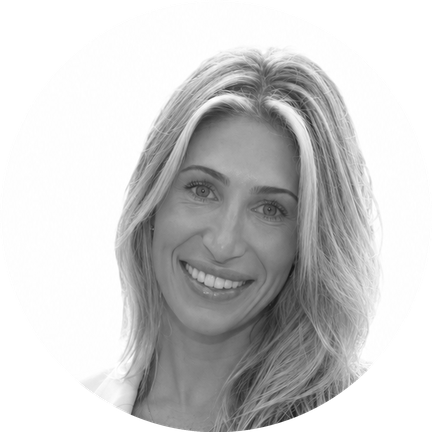
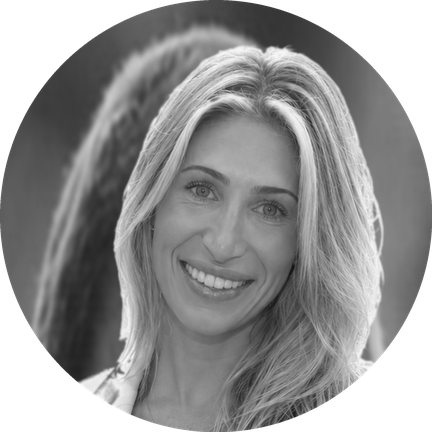
Match Mackenzie's headshot background to the rest of the team; simplify Nick's title
Replaced the flat white studio backdrop with a blurred background
matching the other team photos' style. Changed Nick Picou's title
from "Junior Advisor" to "Advisor".

diff --git a/about.html b/about.html
@@ -151,7 +151,7 @@
         <div class="team-card card reveal">
           <img class="avatar" src="assets/images/nick.png" alt="Nick Picou" width="200" height="200">
           <h3>Nick Picou</h3>
-          <span class="role">Junior Advisor</span>
+          <span class="role">Advisor</span>
           <div class="contact-links">
             <a href="tel:+18646216759"><svg viewBox="0 0 24 24" fill="none" stroke="currentColor" stroke-width="1.6" stroke-linecap="round" stroke-linejoin="round"><path d="M22 16.9v2a2 2 0 0 1-2.2 2 19.8 19.8 0 0 1-8.6-3.1 19.5 19.5 0 0 1-6-6A19.8 19.8 0 0 1 2.1 4.2 2 2 0 0 1 4.1 2h2a2 2 0 0 1 2 1.7c.1 1 .3 2 .7 2.9a2 2 0 0 1-.4 2.1L7.6 9.9a16 16 0 0 0 6 6l1.2-.8a2 2 0 0 1 2.1-.4c.9.4 1.9.6 2.9.7a2 2 0 0 1 1.2 2Z"/></svg> (864) 621-6759</a>
             <a href="mailto:nick@kingshipcollective.com"><svg viewBox="0 0 24 24" fill="none" stroke="currentColor" stroke-width="1.6" stroke-linecap="round" stroke-linejoin="round"><rect x="2.5" y="4.5" width="19" height="15" rx="2"/><path d="m3 6 9 7 9-7"/></svg> nick@kingshipcollective.com</a>
